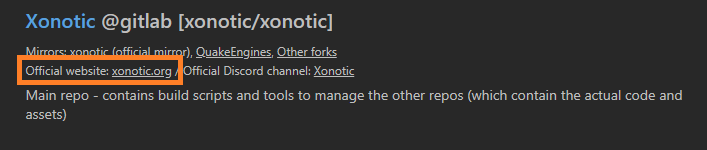
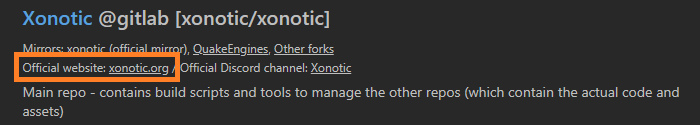
Some fixes for how-to-dowload page: ...
change from class to id in styles, make zoom for images work, except first image, make first image a little smaller

diff --git a/pages/how-to-download.html b/pages/how-to-download.html
@@ -7,7 +7,7 @@
   <meta name="viewport" content="width=device-width, initial-scale=1.0">
   <meta name="google-site-verification" content="lTvQJr_WSsVCTfbjiyG99q1WVXBGjPsmyoc5Z2Spa2A" />
   <title>Quake Engines List - How to Dowload from Github</title>
-  <link rel="stylesheet" type="text/css" href="../style.css?random=26">
+  <link rel="stylesheet" type="text/css" href="../style.css?random=27">
   <link rel="shortcut icon" href="../images/favicon.png" type="image/png">
 </head>
 
@@ -42,16 +42,16 @@
         instruction how to do it for Github.</p>
       <p>First - make sure there is no "Official website" link exists on QuakeEngines page, which would look like this:
       </p>
-      <p><img src="../images/official-website.png" class="img1">
+      <p><img src="../images/official-website.png" id="img1">
       </p>
       <p>If there's no such link for your item - then go to github page of selected engine/mod (using main blue link),
         and then click on "releases" link in the header:</p>
-      <p><img src="../images/download-releases.png" class="img2" title="Click on '28 releases' link in the top menu">
+      <p><img src="../images/download-releases.png" id="img2" title="Click on '* releases' link in the menu bar">
       </p>
       <p>If compiled releases exists on github, this will open page with the list of releases. Most recent one will be
-        in the top. Click on one of the file (without Source code / Source / Src in its title) in Assets section to
+        at the top. Click on one of the file (without Source code / Source / Src in its title) in Assets section to
         download it.</p>
-      <p><img src="../images/download-assets.png" class="img3"
+      <p><img src="../images/download-assets.png" id="img3"
           title="Click on one of the files in Assetes section of the release (if exists)"></p>
       <p>If the "Releases link" was showing "0 releases" - you will see page titled "There aren’t any releases here". It
         means there are no official releases on github yet, so you will need to either find compiled releases elsewhere,

diff --git a/style.css b/style.css
@@ -161,21 +161,25 @@ img {
   margin: 10px 0px;
 }
 
-.img:hover {
+img:hover {
   transition: all .3s;
   opacity: 1;
   transform: scale(1.2);
 }
 
-.img1 {
-  min-height: 500;
+#img1 {
+  min-height: 125;
 }
 
-.img2 {
+#img1:hover {
+  transform: none;
+}
+
+#img2 {
   min-height: 320;
 }
 
-.img3 {
+#img3 {
   min-height: 500;
 }
 
